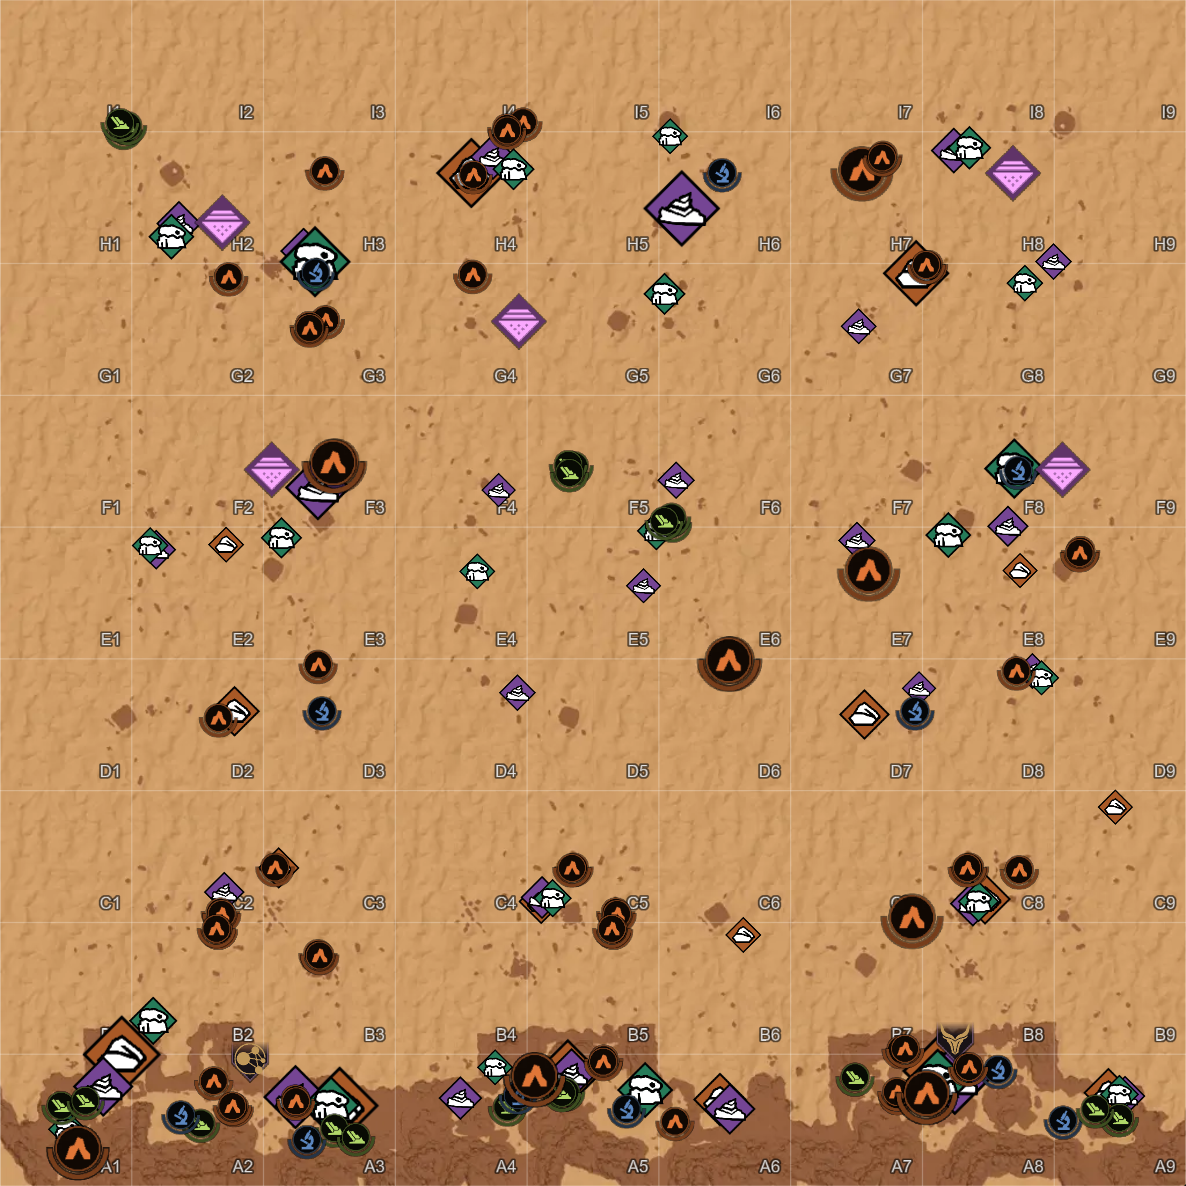
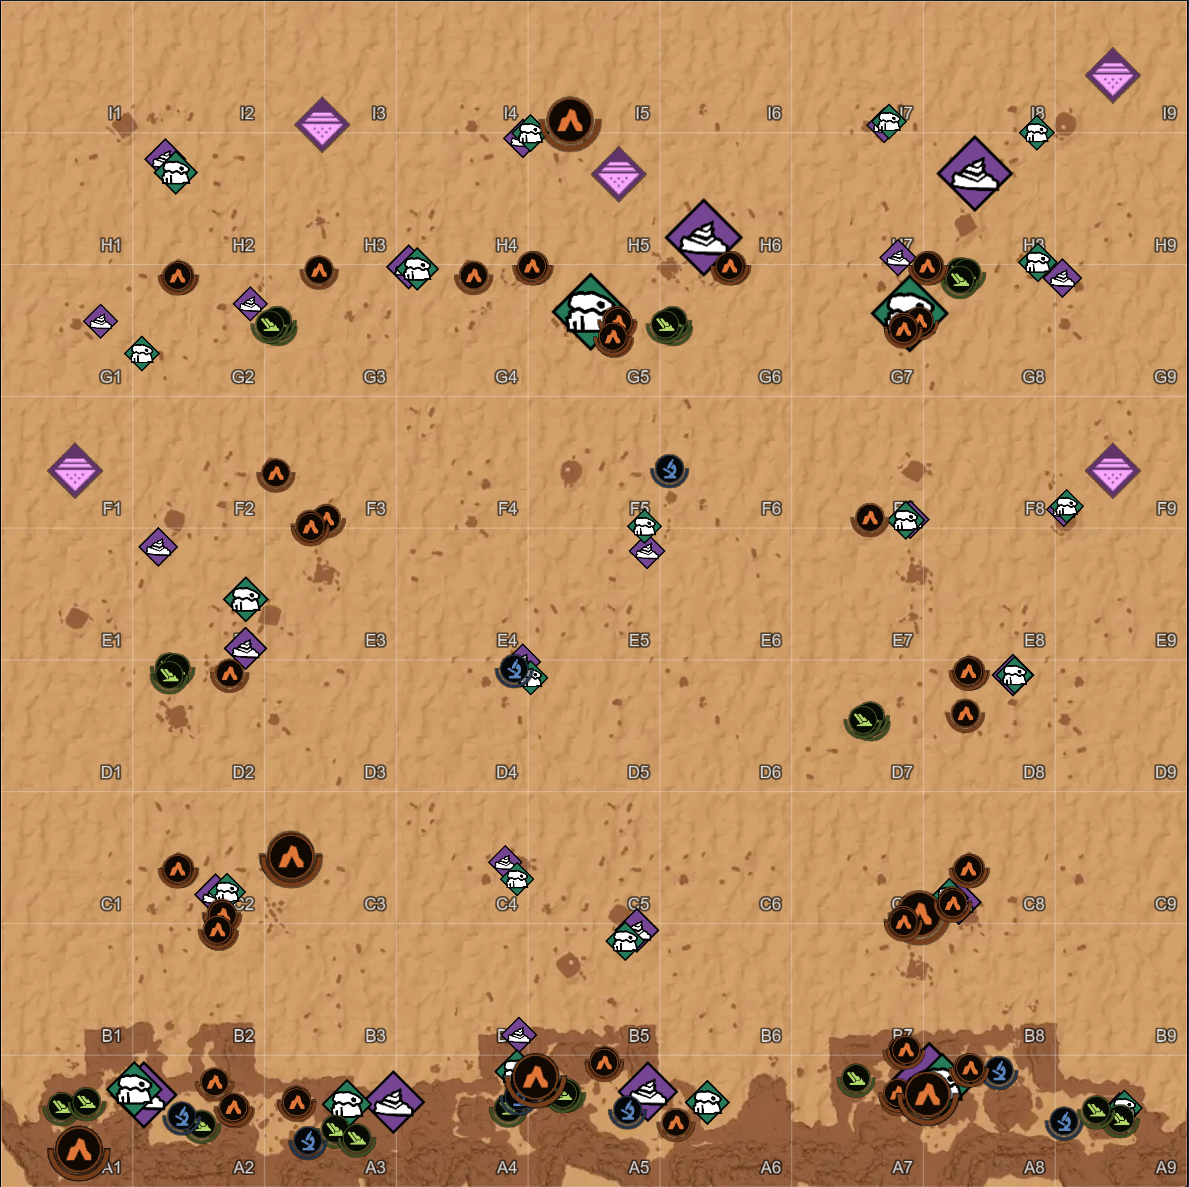
Add files via upload

diff --git a/index.html b/index.html
@@ -840,30 +840,8 @@
                 <tr><td class="td-name">Ma'an Til</td><td>Na-Baron of the Void</td></tr>
                 <tr><td class="td-name">Flaccid Centaur</td><td>Terror-Lord</td></tr>
                 <tr><td class="td-name">izumi</td><td>Terror-Lord</td></tr>
-                <tr><td class="td-name">Zenisha</td><td>Terror-Lord</td></tr>
                 <tr><td class="td-name">Leigha</td><td>PvP Chaos Demon</td></tr>
                 <tr><td class="td-name">ExE</td><td>Terror-Lord</td></tr>
-                <tr><td class="td-name">HauntofCats</td><td>Harbinger of the CATpocalypse</td></tr>
-                <tr><td class="td-name">Arae</td><td>Sietch Breaker</td></tr>
-                <tr><td class="td-name">Rafi IX</td><td>Harvester</td></tr>
-                <tr><td class="td-name">Solaria</td><td>Harvester</td></tr>
-                <tr><td class="td-name">Moe76</td><td>Harvester</td></tr>
-                <tr><td class="td-name">x IKRispy</td><td>Harvester</td></tr>
-                <tr><td class="td-name">CoZ1Elf</td><td>Harvester</td></tr>
-                <tr><td class="td-name">Cauliflower Muad'Dib'</td><td>Harvester</td></tr>
-                <tr><td class="td-name">Freud</td><td>Harvester</td></tr>
-                <tr><td class="td-name">B'Lue</td><td>Harvester</td></tr>
-                <tr><td class="td-name">Shib</td><td>Harvester</td></tr>
-                <tr><td class="td-name">Crows</td><td>Harvester</td></tr>
-                <tr><td class="td-name">BIG AL</td><td>Harvester</td></tr>
-                <tr><td class="td-name">Chaotic Bliss</td><td>Harvester</td></tr>
-                <tr><td class="td-name">Nixs</td><td>Sietch Breaker</td></tr>
-                <tr><td class="td-name">Lisan Al Jay</td><td>Harvester</td></tr>
-                <tr><td class="td-name">Tee</td><td>Harvester</td></tr>
-                <tr><td class="td-name">Rayn Vex</td><td>Harvester</td></tr>
-                <tr><td class="td-name">Ray'ven</td><td>Harvester</td></tr>
-                <tr><td class="td-name">Boomshay</td><td>Unburned</td></tr>
-                <tr><td class="td-name">Durga</td><td>Unburned</td></tr>
             </tbody>
         </table>
     </div>
